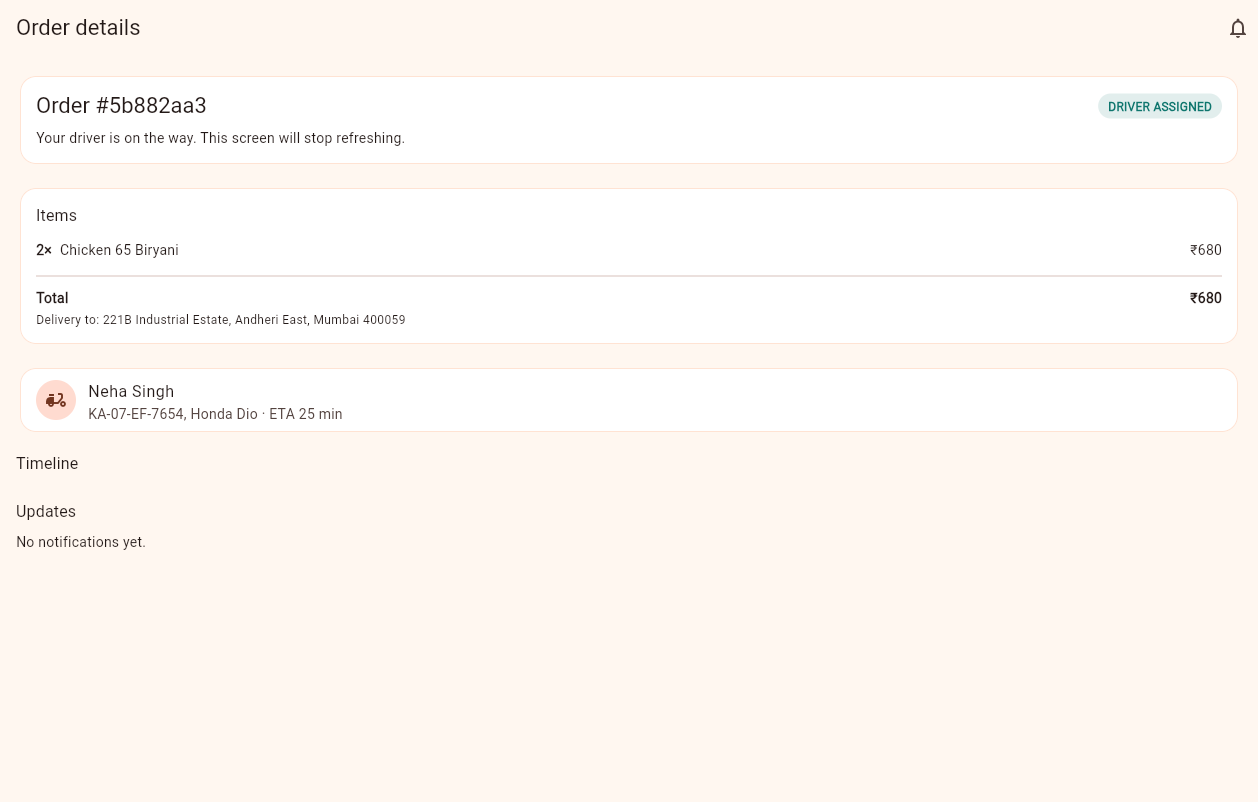
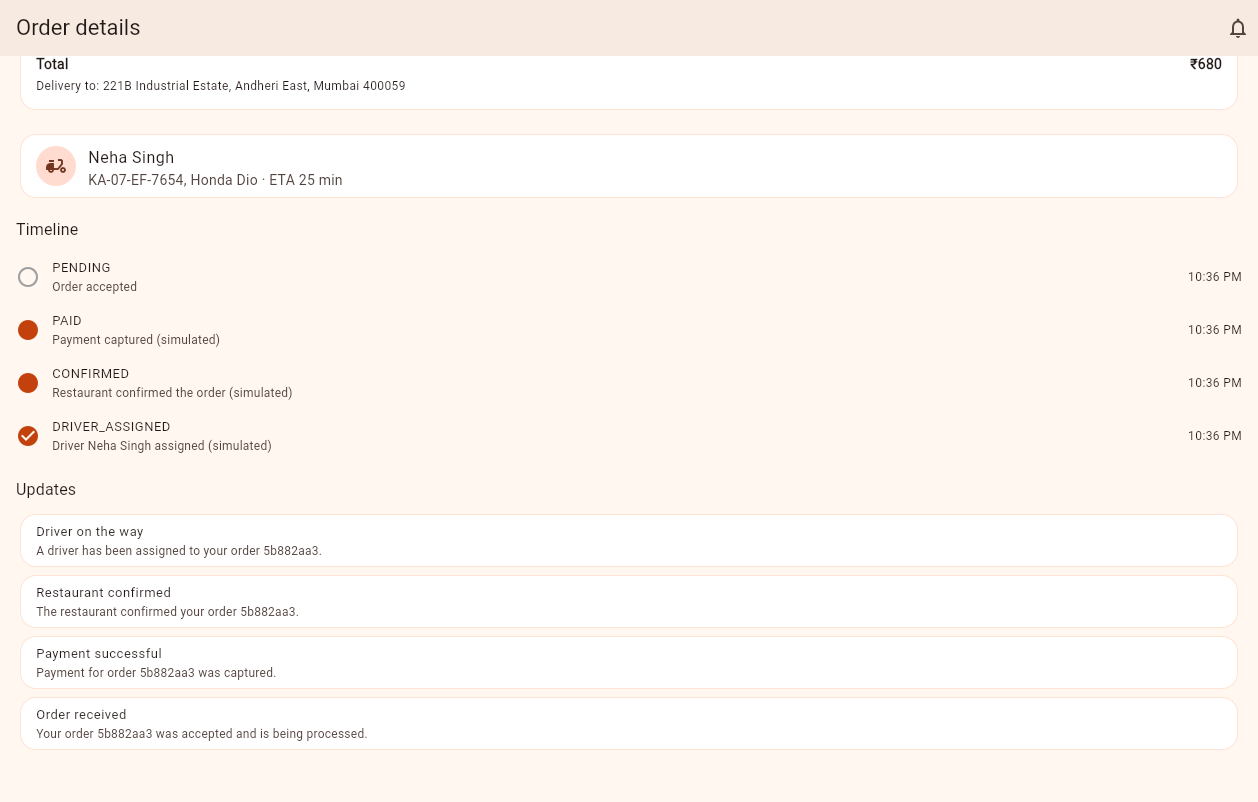
fix: render order tracking history and notifications
The tracking screen assigned two awaited futures with invalid casts:

    _history = results[1] as List<HistoryEntry>;
    _notifications = results[2] as List<AppNotification>;

Both futures resolve to Paginated<T>, a plain wrapper that is not a List. The
casts compile (Future.wait yields List<Object>) but throw TypeError at
runtime, inside the setState callback, so no state was ever applied. The
surrounding catch swallowed the error and polling continued, leaving the
Timeline and Updates sections permanently empty.

Unwrap the paginated envelope instead. Verified against the live stack: the
web image was rebuilt and only the web container recreated, and order
5b882aa3 now renders all four history entries and all four notifications.

Adds order_detail_screen_test.dart, which mounts the real screen against a
stubbed Dio adapter and fails on the pre-fix code.

diff --git a/frontend/test/order_detail_screen_test.dart b/frontend/test/order_detail_screen_test.dart
@@ -1,0 +1,146 @@
+import 'dart:convert';
+import 'dart:typed_data';
+
+import 'package:dio/dio.dart';
+import 'package:flutter/material.dart';
+import 'package:flutter_riverpod/flutter_riverpod.dart';
+import 'package:flutter_test/flutter_test.dart';
+import 'package:quickbite/core/api_client.dart';
+import 'package:quickbite/features/orders/order_detail_screen.dart';
+import 'package:quickbite/state/auth_controller.dart';
+
+/// Serves canned JSON so the widget test never touches the network.
+class _StubAdapter implements HttpClientAdapter {
+  _StubAdapter(this.routes);
+
+  final Map<String, Map<String, dynamic>> routes;
+  final List<String> requested = [];
+
+  @override
+  Future<ResponseBody> fetch(
+    RequestOptions options,
+    Stream<Uint8List>? requestStream,
+    Future<void>? cancelFuture,
+  ) async {
+    final path = options.path;
+    requested.add(path);
+    final body = routes.entries.firstWhere(
+      (e) => path.endsWith(e.key),
+      orElse: () => const MapEntry('', <String, dynamic>{}),
+    ).value;
+    return ResponseBody.fromString(
+      jsonEncode(body),
+      200,
+      headers: {
+        Headers.contentTypeHeader: [Headers.jsonContentType],
+      },
+    );
+  }
+
+  @override
+  void close({bool force = false}) {}
+}
+
+const _orderId = '5b882aa3-d48f-4be2-92d7-ffa8c0cf5cca';
+
+Map<String, dynamic> _orderJson() => {
+      'id': _orderId,
+      'restaurant_id': 'r-1',
+      'restaurant_name': 'Biryani Blues House',
+      'status': 'DRIVER_ASSIGNED',
+      'total_minor': 68000,
+      'currency': 'INR',
+      'delivery_address': '221B Industrial Estate, Andheri East, Mumbai 400059',
+      'version': 4,
+      'failure_reason': null,
+      'driver': {
+        'driver_name': 'Neha Singh',
+        'vehicle': 'KA-07-EF-7654, Honda Dio',
+        'eta_minutes': 25,
+      },
+      'items': [
+        {
+          'menu_item_id': 'f9292865-8959-46de-bc24-283c740780fb',
+          'name': 'Chicken 65 Biryani',
+          'unit_price_minor': 34000,
+          'quantity': 2,
+          'line_total_minor': 68000,
+        }
+      ],
+      'created_at': '2026-10-14T17:06:43Z',
+      'updated_at': '2026-10-14T17:06:48Z',
+    };
+
+Map<String, dynamic> _paginated(List<Map<String, dynamic>> items) => {
+      'items': items,
+      'page': 1,
+      'page_size': 100,
+      'total': items.length,
+    };
+
+Map<String, dynamic> _notification(String eventType, String title) => {
+      'id': 'n-$eventType',
+      'order_id': _orderId,
+      'event_type': eventType,
+      'title': title,
+      'message': 'Message for $eventType',
+      'created_at': '2026-10-14T17:06:48Z',
+    };
+
+Widget _app(HttpClientAdapter adapter) {
+  final dio = Dio(BaseOptions(baseUrl: 'http://stub/api/v1'));
+  dio.httpClientAdapter = adapter;
+  final client = ApiClient(dio: dio);
+  return ProviderScope(
+    overrides: [apiClientProvider.overrideWithValue(client)],
+    child: const MaterialApp(home: OrderDetailScreen(orderId: _orderId)),
+  );
+}
+
+void main() {
+  testWidgets('tracking screen renders the timeline and this order\'s notifications', (tester) async {
+    final adapter = _StubAdapter({
+      '/history': _paginated([
+        {
+          'status': 'PENDING',
+          'version': 1,
+          'note': 'Order accepted',
+          'created_at': '2026-10-14T17:06:41Z',
+        },
+        {
+          'status': 'PAID',
+          'version': 2,
+          'note': 'Payment captured',
+          'created_at': '2026-10-14T17:06:44Z',
+        },
+      ]),
+      '/notifications': _paginated([
+        _notification('order.created', 'Order received'),
+        _notification('order.driver.assigned', 'Driver on the way'),
+      ]),
+      _orderId: _orderJson(),
+    });
+
+    await tester.pumpWidget(_app(adapter));
+    await tester.pumpAndSettle();
+
+    // The order itself must load.
+    expect(find.text('DRIVER ASSIGNED'), findsOneWidget);
+
+    // Timeline entries from /orders/{id}/history must be shown.
+    expect(find.text('Order accepted'), findsOneWidget);
+    expect(find.text('Payment captured'), findsOneWidget);
+
+    // Scroll to the Updates section: notifications for this order must be
+    // rendered, not the "no notifications" empty state.
+    await tester.dragUntilVisible(
+      find.text('Updates'),
+      find.byType(ListView).first,
+      const Offset(0, -200),
+    );
+    await tester.pumpAndSettle();
+
+    expect(find.text('No notifications yet.'), findsNothing);
+    expect(find.text('Driver on the way'), findsOneWidget);
+  });
+}

diff --git a/frontend/lib/features/orders/order_detail_screen.dart b/frontend/lib/features/orders/order_detail_screen.dart
@@ -60,8 +60,8 @@ class _OrderDetailScreenState extends ConsumerState<OrderDetailScreen> {
       if (!mounted) return;
       setState(() {
         _order = results[0] as OrderDetail;
-        _history = results[1] as List<HistoryEntry>;
-        _notifications = results[2] as List<AppNotification>;
+        _history = (results[1] as Paginated<HistoryEntry>).items;
+        _notifications = (results[2] as Paginated<AppNotification>).items;
         _error = null;
         _failures = 0;
       });

diff --git a/PROJECT_STATUS.md b/PROJECT_STATUS.md
@@ -52,8 +52,8 @@ injection, automated tests, and a one-command Docker Compose startup.
   (`backend/tests/`: test_auth, test_catalog, test_checkout, test_workers,
   test_recovery, test_admin, test_health). Note: earlier revisions of this
   file claimed 36; the actual collected count is 34.
-- Flutter: **7 passed** (`cart_controller_test.dart` 4, `login_screen_test.dart`
-  2, `money formatting` 1).
+- Flutter: **8 passed** (`cart_controller_test.dart` 4, `login_screen_test.dart`
+  2, `order_detail_screen_test.dart` 1, money formatting 1).
 - `flutter analyze`: **0 errors**, 2 infos (web-only `dart:html` deprecation
   in `lib/core/web_origin_web.dart`) — expected and accepted.
 - Load benchmark `backend/scripts/load_test.py` (untracked) — 100 orders,
@@ -73,6 +73,7 @@ Commits added in this session:
 |---|---|
 | `e1beb87` | Riverpod 3.x migration (`router.dart`, `app.dart`, `analysis_options.yaml`) + `frontend/android/` scaffolding |
 | *this commit* | Documentation and tooling: `README.md`, `PROJECT_STATUS.md`, `docs/traceability-matrix.md`, `docs/screenshots/*.png`, `backend/scripts/load_test.py` |
+| *this commit* | `fix: render order tracking history and notifications` — the `Paginated<T>` cast fix, its regression test, the refreshed `07-order-tracking.png` and this status record. Committed 2026-10-15; **not pushed**. (A commit cannot contain its own hash; read it with `git log --oneline -1`.) |
 
 Nothing was pushed to the remote. No existing change was reset, cleaned or
 overwritten at any point.
@@ -89,19 +90,85 @@ overwritten at any point.
   executable path (`C:\flutter\bin\flutter.bat`, since `flutter` is not on
   `PATH`).
 
+### Order tracking timeline bug — root cause and fix
+
+**Symptom:** `docs/screenshots/07-order-tracking.png` showed an empty
+"Timeline" section and "No notifications yet." under Updates, while the same
+order had four notifications on the notifications screen.
+
+**Ruled out first (as required):**
+- Database — the order's rows are correct. `GET /api/v1/notifications`
+  (`total=317`) returns all four notifications for order `5b882aa3` on
+  **page 1** (`order.created`, `order.paid`, `order.confirmed`,
+  `order.driver.assigned`), so pagination is not the cause.
+- API contract — `NotificationOut.order_id` is a `str` equal to
+  `OrderDetailOut.id`, and `GET /orders/{id}/history` returns 4 rows. No
+  mismatch.
+
+**Root cause:** `frontend/lib/features/orders/order_detail_screen.dart`
+`_refresh()` awaited three futures and assigned two of them with invalid
+casts:
+
+```dart
+_history = results[1] as List<HistoryEntry>;          // actually Paginated<HistoryEntry>
+_notifications = results[2] as List<AppNotification>; // actually Paginated<AppNotification>
+```
+
+`Paginated<T>` (`frontend/lib/models/models.dart:91`) is a plain wrapper class,
+not a `List`. The casts compile (the list from `Future.wait` is typed
+`List<Object>`) but throw `TypeError` at runtime. The throw happens inside the
+`setState` callback, so **no** state is applied; the failure is swallowed by
+the surrounding `catch`, the screen keeps polling, and after five failures it
+can only show the generic error/spinner state. Timeline and Updates therefore
+never populate.
+
+**Fix (2 lines):** unwrap the paginated envelope.
+
+```dart
+_history = (results[1] as Paginated<HistoryEntry>).items;
+_notifications = (results[2] as Paginated<AppNotification>).items;
+```
+
+**Changed files**
+- `frontend/lib/features/orders/order_detail_screen.dart` (fix, lines 63–64)
+- `frontend/test/order_detail_screen_test.dart` (new regression test)
+- `docs/screenshots/07-order-tracking.png` (re-captured from the fixed build)
+- `PROJECT_STATUS.md` (this record)
+
+**Regression test:** `order_detail_screen_test.dart` mounts the real
+`OrderDetailScreen` against a stubbed Dio `HttpClientAdapter` serving payloads
+copied verbatim from the live API. It asserts the order renders, both timeline
+entries render, the empty state is absent and this order's notifications
+render. It **fails on the pre-fix code** ("Found 0 widgets with text 'Order
+accepted'") and passes after the fix.
+
+**Verification:** `flutter test` **8 passed** (was 7); `flutter analyze`
+**0 errors**, same 2 accepted web-only infos. Backend untouched, so the
+pytest suite was not re-run (last result: 34 passed).
+
+**Live verification (2026-10-14, 23:08 IST):** the web image was rebuilt
+(`docker compose build web` → image `dd66ff015d9d`) and **only** the web
+container was recreated; api, workers, PostgreSQL and RabbitMQ were untouched
+(still `Up 3–4 hours`). The running app was inspected at
+`http://localhost:8088` for order `5b882aa3`: the Timeline renders all four
+history entries (PENDING → PAID → CONFIRMED → DRIVER_ASSIGNED) and Updates
+renders all four notifications; "No notifications yet." is gone and there were
+no page errors. `docs/screenshots/07-order-tracking.png` was re-captured from
+this verified state, so the screenshot evidence now matches the fixed build.
+
 ## 6. Remaining work
 
 - None blocking. Optional future items are listed in §7.
 
 ## 7. Errors / known issues
 
-- No compile or test failures at audit time.
-- Observed on the tracking screen: the "Timeline / Updates" section renders
-  "No notifications yet." even though the same order produced four persisted
-  notifications (visible on the Notifications screen, `09-notifications.png`).
-  The order-scoped timeline query appears not to match these rows. Reported
-  as an observation — **not fixed**, because it is a behaviour change, not
-  housekeeping.
+- The tracking-timeline defect is fixed and **verified in the running stack**
+  (see §5). Fix, regression test and refreshed screenshot are committed;
+  **nothing has been pushed to the remote**.
+- No other compile or test failures at audit time.
+- The tracking-timeline defect was root-caused and fixed; it had rendered the
+  timeline and notifications empty on the tracking screen. Verified fixed in
+  the live application, and `07-order-tracking.png` re-captured — see §5.
 - Admin overview shows `Quarantined 497`. These are retained failure records
   from the earlier 100-order load test and `always_fail` injections, not a
   live backlog (`Pending outbox 0`, `Retry backlog 0`).
